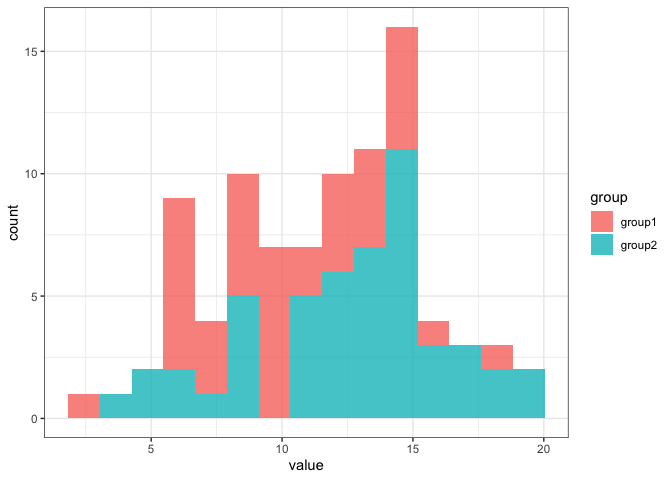
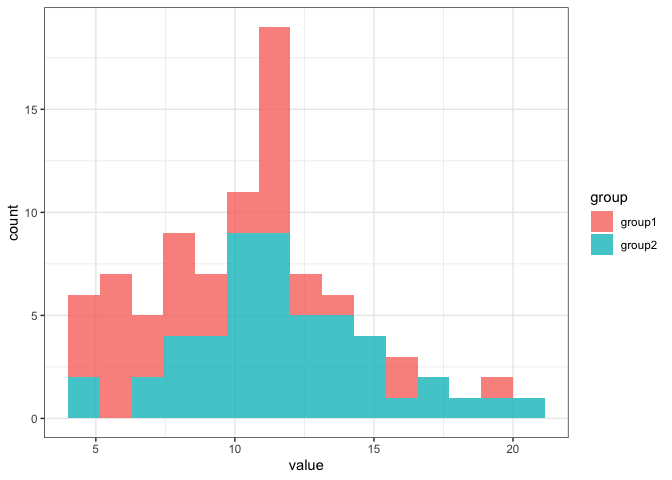
Lengthened description of function, added plot argument, renamed object that repeater function will conduct statistical test on

diff --git a/README.md b/README.md
@@ -19,7 +19,9 @@ devtools::install_github("TJMurphy/mcpwr")
 
 ## Example
 
-The poisdm function is a datamaker for data with a Poisson distribution
+The poisdm function is a datamaker to simulate groups of
+Poisson-distributed count data. The plot argument allows users to print
+a histogram and jitterplot of the output.
 
 ``` r
 library(mcpwr)
@@ -28,7 +30,7 @@ library(mcpwr)
 # for group 1 (group of 40 measurements with a mean of 10)
 # and group 2 (group of 50 with measurements with a mean of 12)
 
-poisdm(c(40, 50), c(10, 12), c("group1", "group2"))
+poisdm(c(40, 50), c(10, 12), c("group1", "group2"), TRUE)
 ```
 
 <img src="man/figures/README-example-1.png" width="100%" /><img src="man/figures/README-example-2.png" width="100%" />
